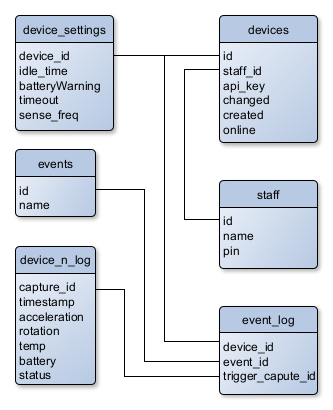
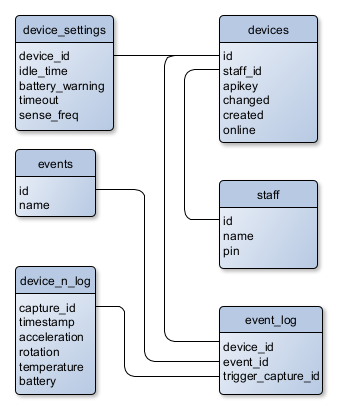
update er-diagramm + protocol

diff --git a/src/php/SocketController.php b/src/php/SocketController.php
@@ -10,7 +10,6 @@ include_once 'Device.php';
 
 include_once 'Response.php';
 
-use DBConfig;
 use DBController;
 use Device;
 
@@ -219,7 +218,7 @@ class SocketController implements MessageComponentInterface
                         $from->send($this->response(RP_DEVICE_CANT_REGISTER_AS_SUBSCRIBER));
                     }
                 } else {
-                    $from->send($this->response(RP_SUBSCRIBER_MISSING_REGESTRATION_STATE));
+                    $from->send($this->response(RP_SUBSCRIBER_MISSING_REGISTRATION_STATE));
                 }
             } else {
                 $from->send($this->response(RP_INVALID_DEVICE_ID));
@@ -241,7 +240,7 @@ class SocketController implements MessageComponentInterface
                 }
             }
         } else {
-            $from->send($this->response(PR_DATA_ITEM_CONUT_DOESNT_MATCH));
+            $from->send($this->response(PR_DATA_ITEM_COUNT_DOESNT_MATCH));
         }
 
         $authenticated = false;

diff --git a/src/php/Response.php b/src/php/Response.php
@@ -2,7 +2,7 @@
 # responselist
 define("RP_NOT_CONNECTED", 1);
 define("RP_CONNECTED", 2);
-define("RP_GOBAL_UPDATE", 4);
+define("RP_GLOBAL_UPDATE", 4);
 
 define("RP_DEVICE_LOGOUT_FAILED", 8);
 define("RP_DEVICE_LOGGED_OUT", 9);
@@ -19,13 +19,13 @@ define("RP_INVALID_DEVICE_ID", 23);
 define("RP_SUBSCRIBER_ALREADY_REGISTERED", 24);
 define("RP_SUBSCRIBER_NOT_REGISTERED", 25);
 define("RP_MISSING_DEVICE_ID", 26);
-define("RP_SUBSCRIBER_MISSING_REGESTRATION_STATE", 27);
+define("RP_SUBSCRIBER_MISSING_REGISTRATION_STATE", 27);
 define("RP_SUBSCRIBER_CANT_REGISTER_AS_DEVICE", 28);
 define("RP_DEVICE_CANT_REGISTER_AS_SUBSCRIBER", 29);
 define("RP_MISSING_TYPE", 30);
 define("RP_MISSING_DATA", 31);
 define("RP_UNKNOWN_DATA_TYPE", 32);
-define("PR_DATA_ITEM_CONUT_DOESNT_MATCH", 33);
+define("PR_DATA_ITEM_COUNT_DOESNT_MATCH", 33);
 
 define("RP_SERVER_OFFILNE", 40);
 define("RP_UNKNOWN_ERROR", 42);

diff --git a/src/php/Client.php b/src/php/Client.php
@@ -1,12 +1,14 @@
 <?php
+class Client {
+  public $id;
 
-class Client
-{
-    public $id;
-    public $ip = "";
+  public $ip =  "";
 
-    public function __construct($rescourdeId)
-    {
+  public function __construct($rescourdeId)
+  {
+
         $this->id = $rescourdeId;
-    }
+  }
+
 }
+
